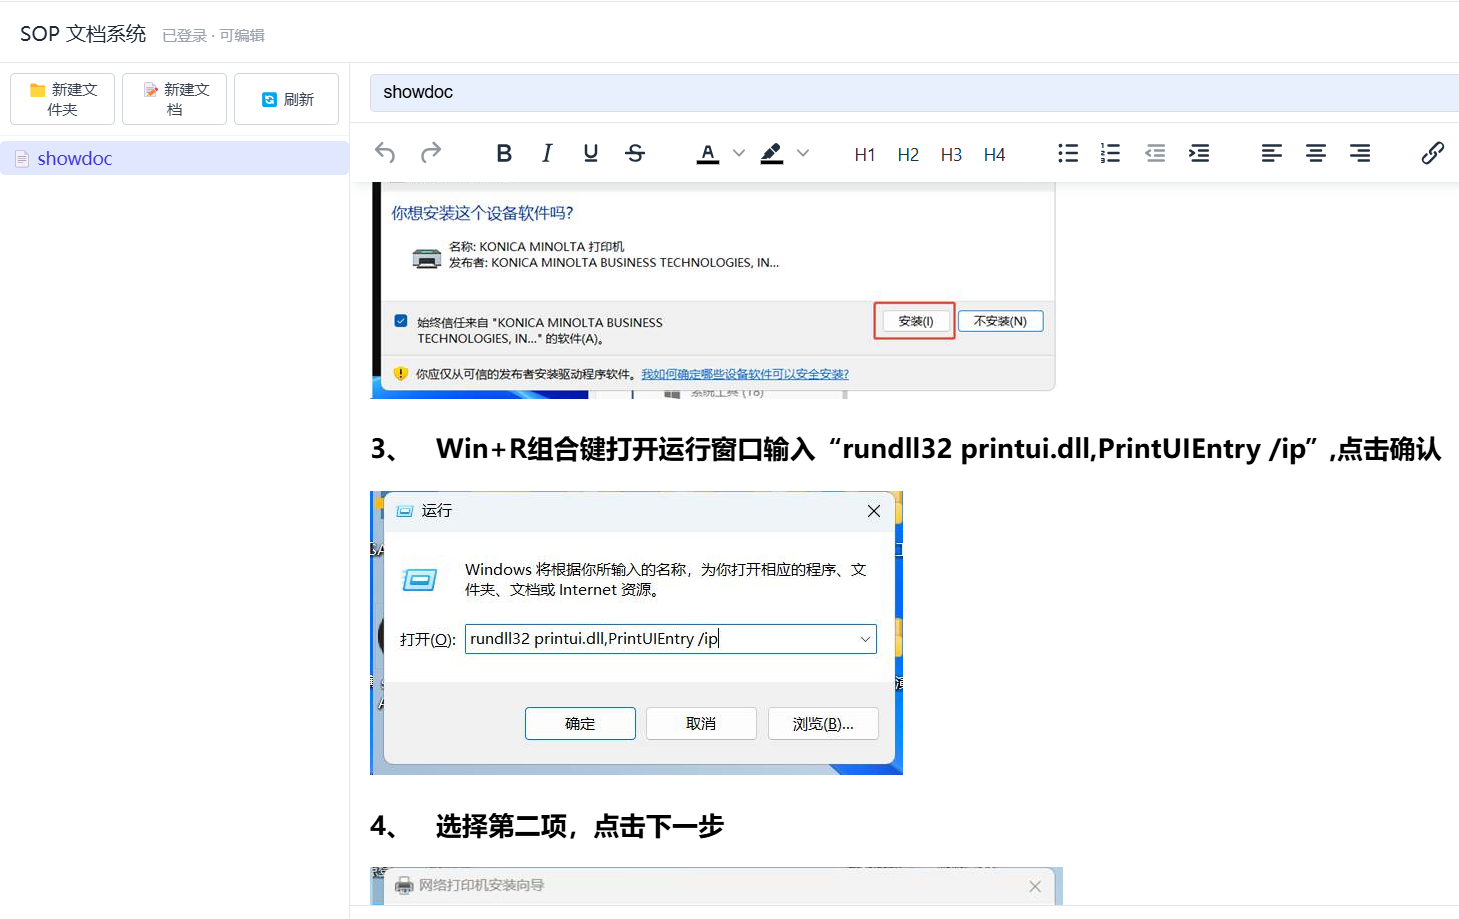
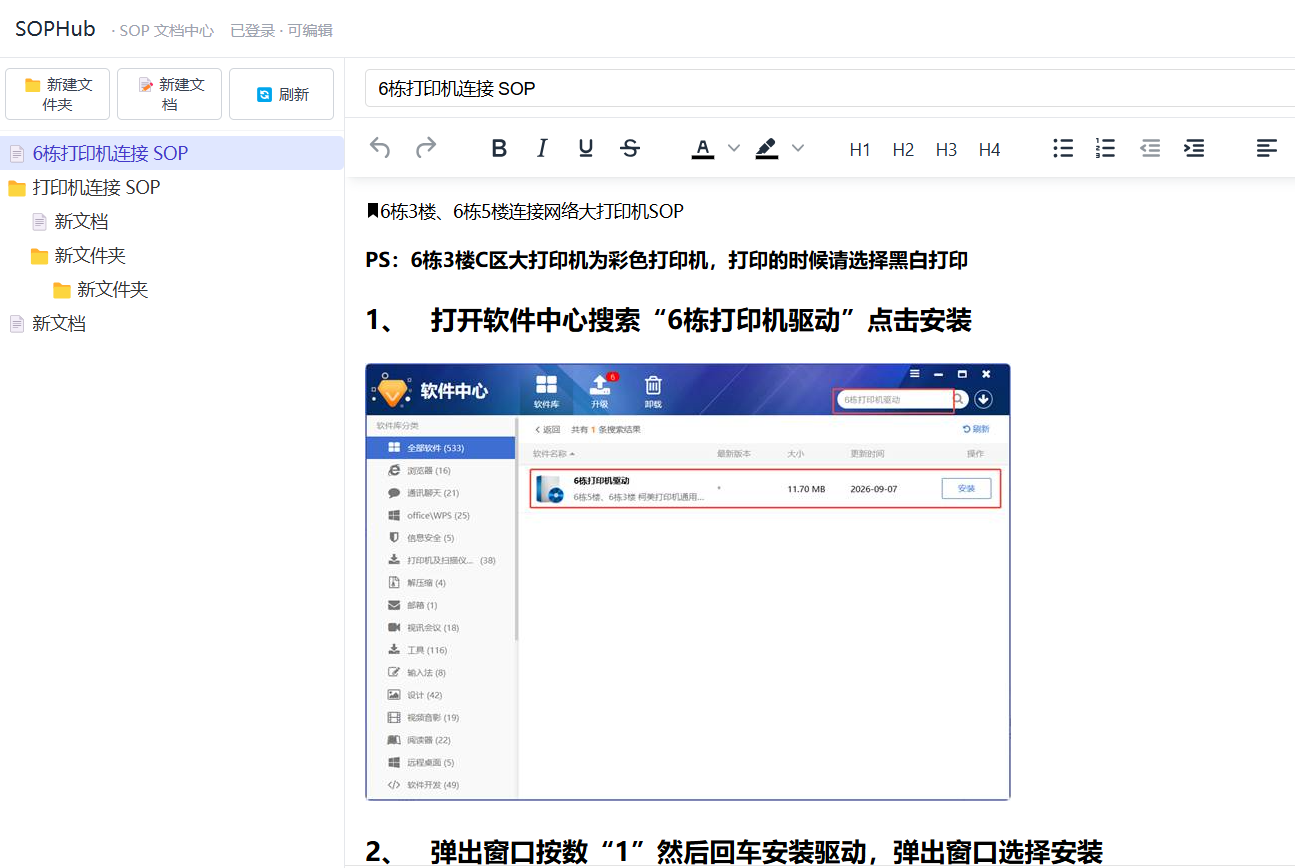
fix tree-like

Changed region(s): [[0.0, 0.0, 1.0, 1.0], [0.5869, 0.1555, 0.9884, 0.1866], [0.5251, 0.1555, 0.556, 0.1866]]

diff --git a/index.php b/index.php
@@ -89,7 +89,8 @@ $tinymceUrl = file_exists($tinymceLocalPath)
   .tree-node .tree-btn.danger { color: #dc2626; }
   .tree-node:hover .tree-btn { opacity: 1; }
   body:not(.authed) .tree-node .tree-btn { display: none; }
-  .tree-children { margin-left: 18px; }
+  .tree-children { margin-left: 18px; display: block; }
+  .tree-node-wrapper { display: block; }
 
   /* 主区域 */
   .main {
@@ -366,6 +367,11 @@ function renderTree() {
 }
 
 function renderNode(node) {
+  // 外层 wrapper：包含标题行 + 子节点容器（独立块级元素）
+  const wrapper = document.createElement('div');
+  wrapper.className = 'tree-node-wrapper';
+
+  // 标题行：flex 横排 [图标][标题][按钮们]
   const div = document.createElement('div');
   div.className = 'tree-node' + (currentDocId === node.id ? ' active' : '');
   div.onclick = (e) => {
@@ -418,25 +424,10 @@ function renderNode(node) {
   };
   div.appendChild(del);
 
-  // 文件夹：渲染子节点容器 + 折叠 + 新建按钮
+  // 文件夹：在标题行加 + 按钮，并附加独立的子节点容器
+  let childContainer = null;
   if (node.is_folder == 1) {
-    const childContainer = document.createElement('div');
-    childContainer.className = 'tree-children';
-    if (node.children.length) {
-      node.children.forEach(c => childContainer.appendChild(renderNode(c)));
-    }
-    div.appendChild(childContainer);
-
-    // 点击文件夹标题行：折叠/展开
-    div.onclick = (e) => {
-      // 避免点击按钮时触发折叠
-      if (e.target.closest('.tree-btn')) return;
-      e.stopPropagation();
-      childContainer.style.display = childContainer.style.display === 'none' ? 'block' : 'none';
-      icon.textContent = childContainer.style.display === 'none' ? '📂' : '📁';
-    };
-
-    // 文件夹"+ 新建"按钮（仅登录用户）
+    // + 新建按钮（在标题行里）
     const addBtn = document.createElement('button');
     addBtn.className = 'tree-btn auth-only edit';
     addBtn.textContent = '+';
@@ -446,9 +437,31 @@ function renderNode(node) {
       addMenu(node.id);
     };
     div.appendChild(addBtn);
+
+    // 点击文件夹标题行：折叠/展开（覆盖上面的 selectNode）
+    div.onclick = (e) => {
+      if (e.target.closest('.tree-btn')) return;
+      e.stopPropagation();
+      if (childContainer) {
+        childContainer.style.display = childContainer.style.display === 'none' ? 'block' : 'none';
+        icon.textContent = childContainer.style.display === 'none' ? '📂' : '📁';
+      }
+    };
   }
 
-  return div;
+  wrapper.appendChild(div);
+
+  // 子节点容器：作为 wrapper 的兄弟元素，独立块级，缩进显示
+  if (node.is_folder == 1) {
+    childContainer = document.createElement('div');
+    childContainer.className = 'tree-children';
+    if (node.children.length) {
+      node.children.forEach(c => childContainer.appendChild(renderNode(c)));
+    }
+    wrapper.appendChild(childContainer);
+  }
+
+  return wrapper;
 }
 
 // 文件夹内新建（弹出选择）
